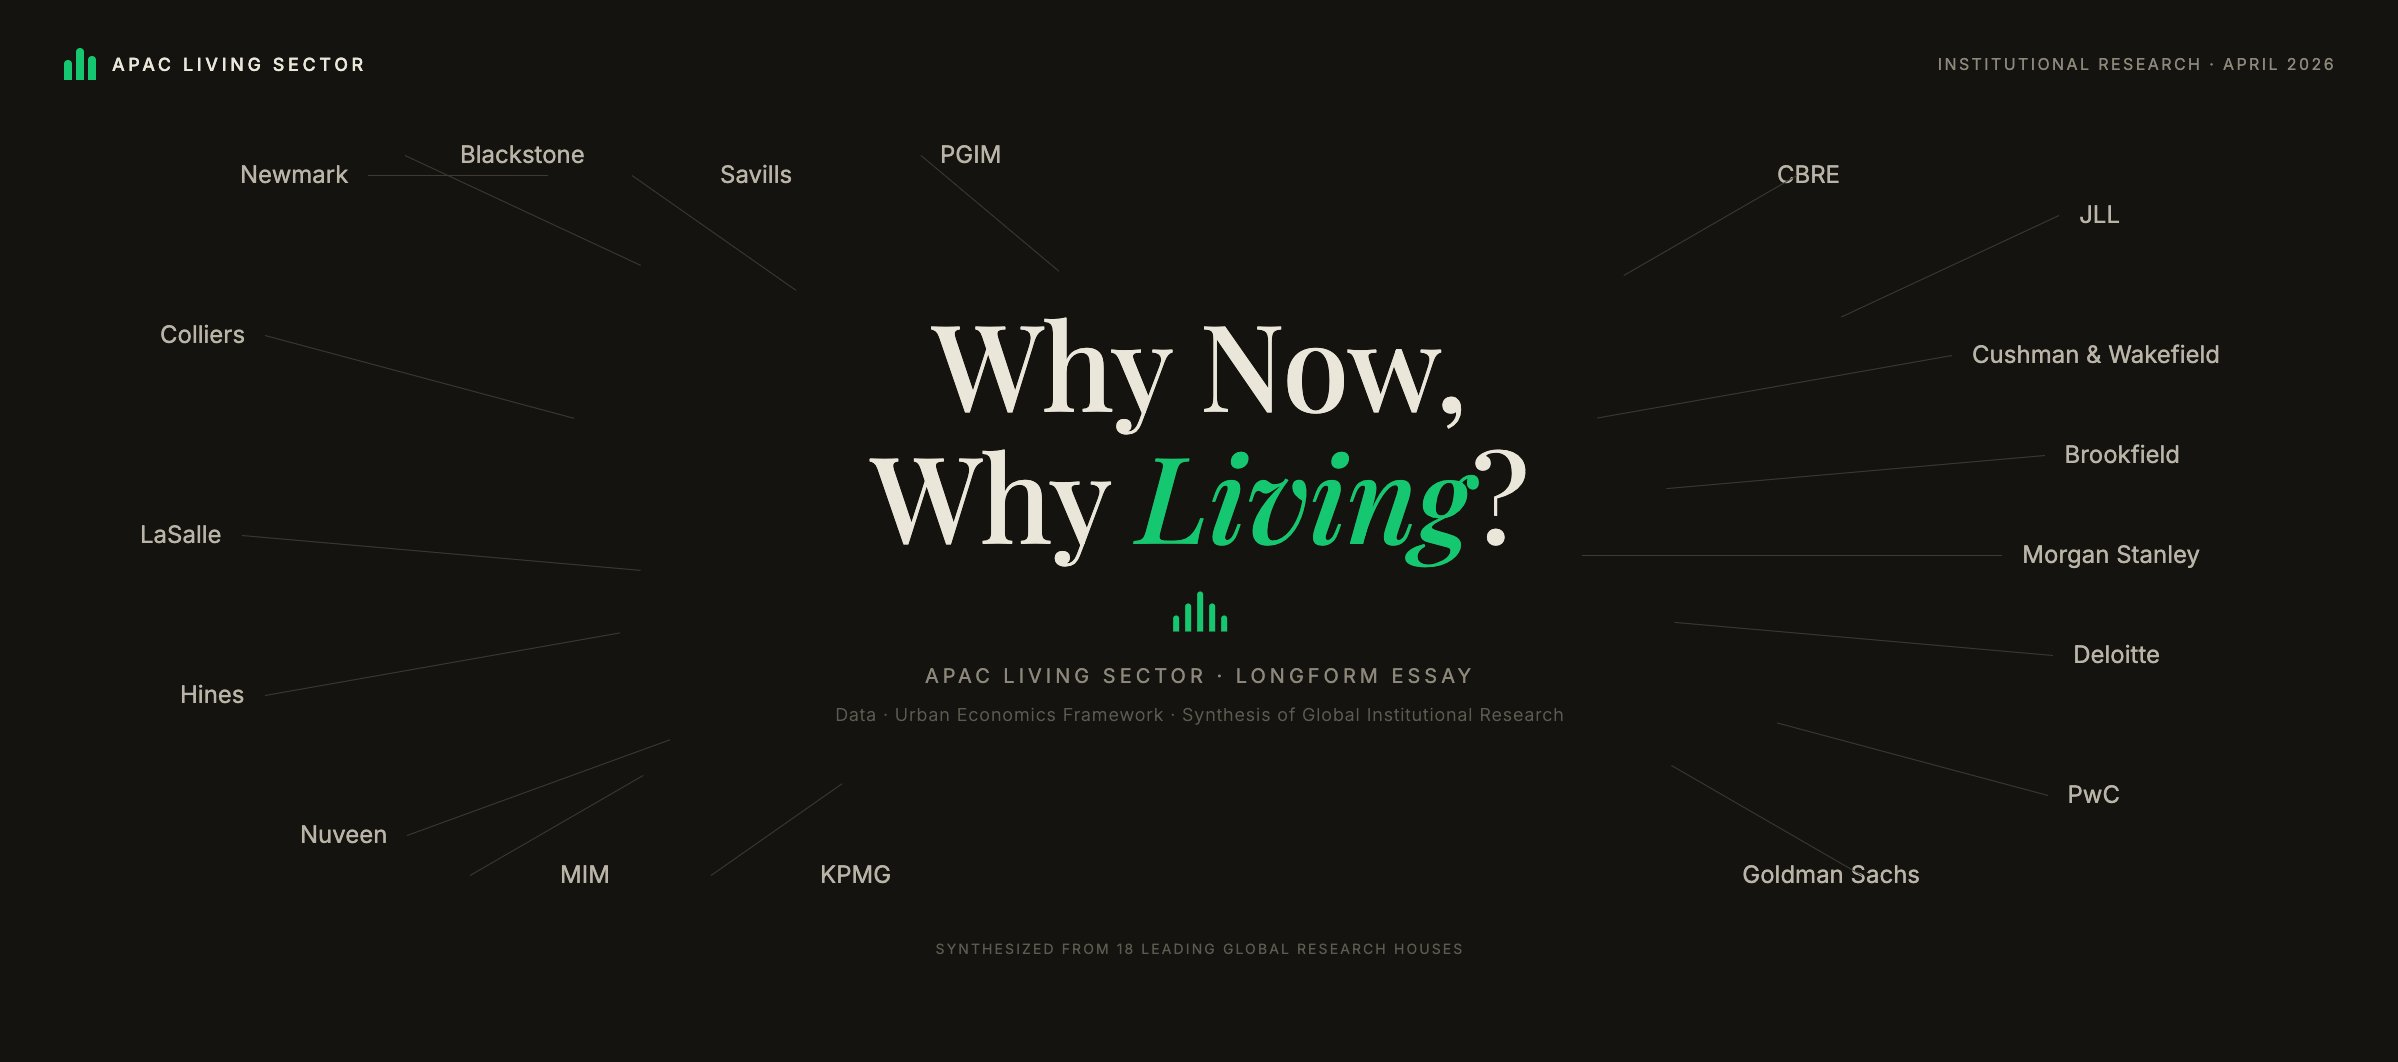
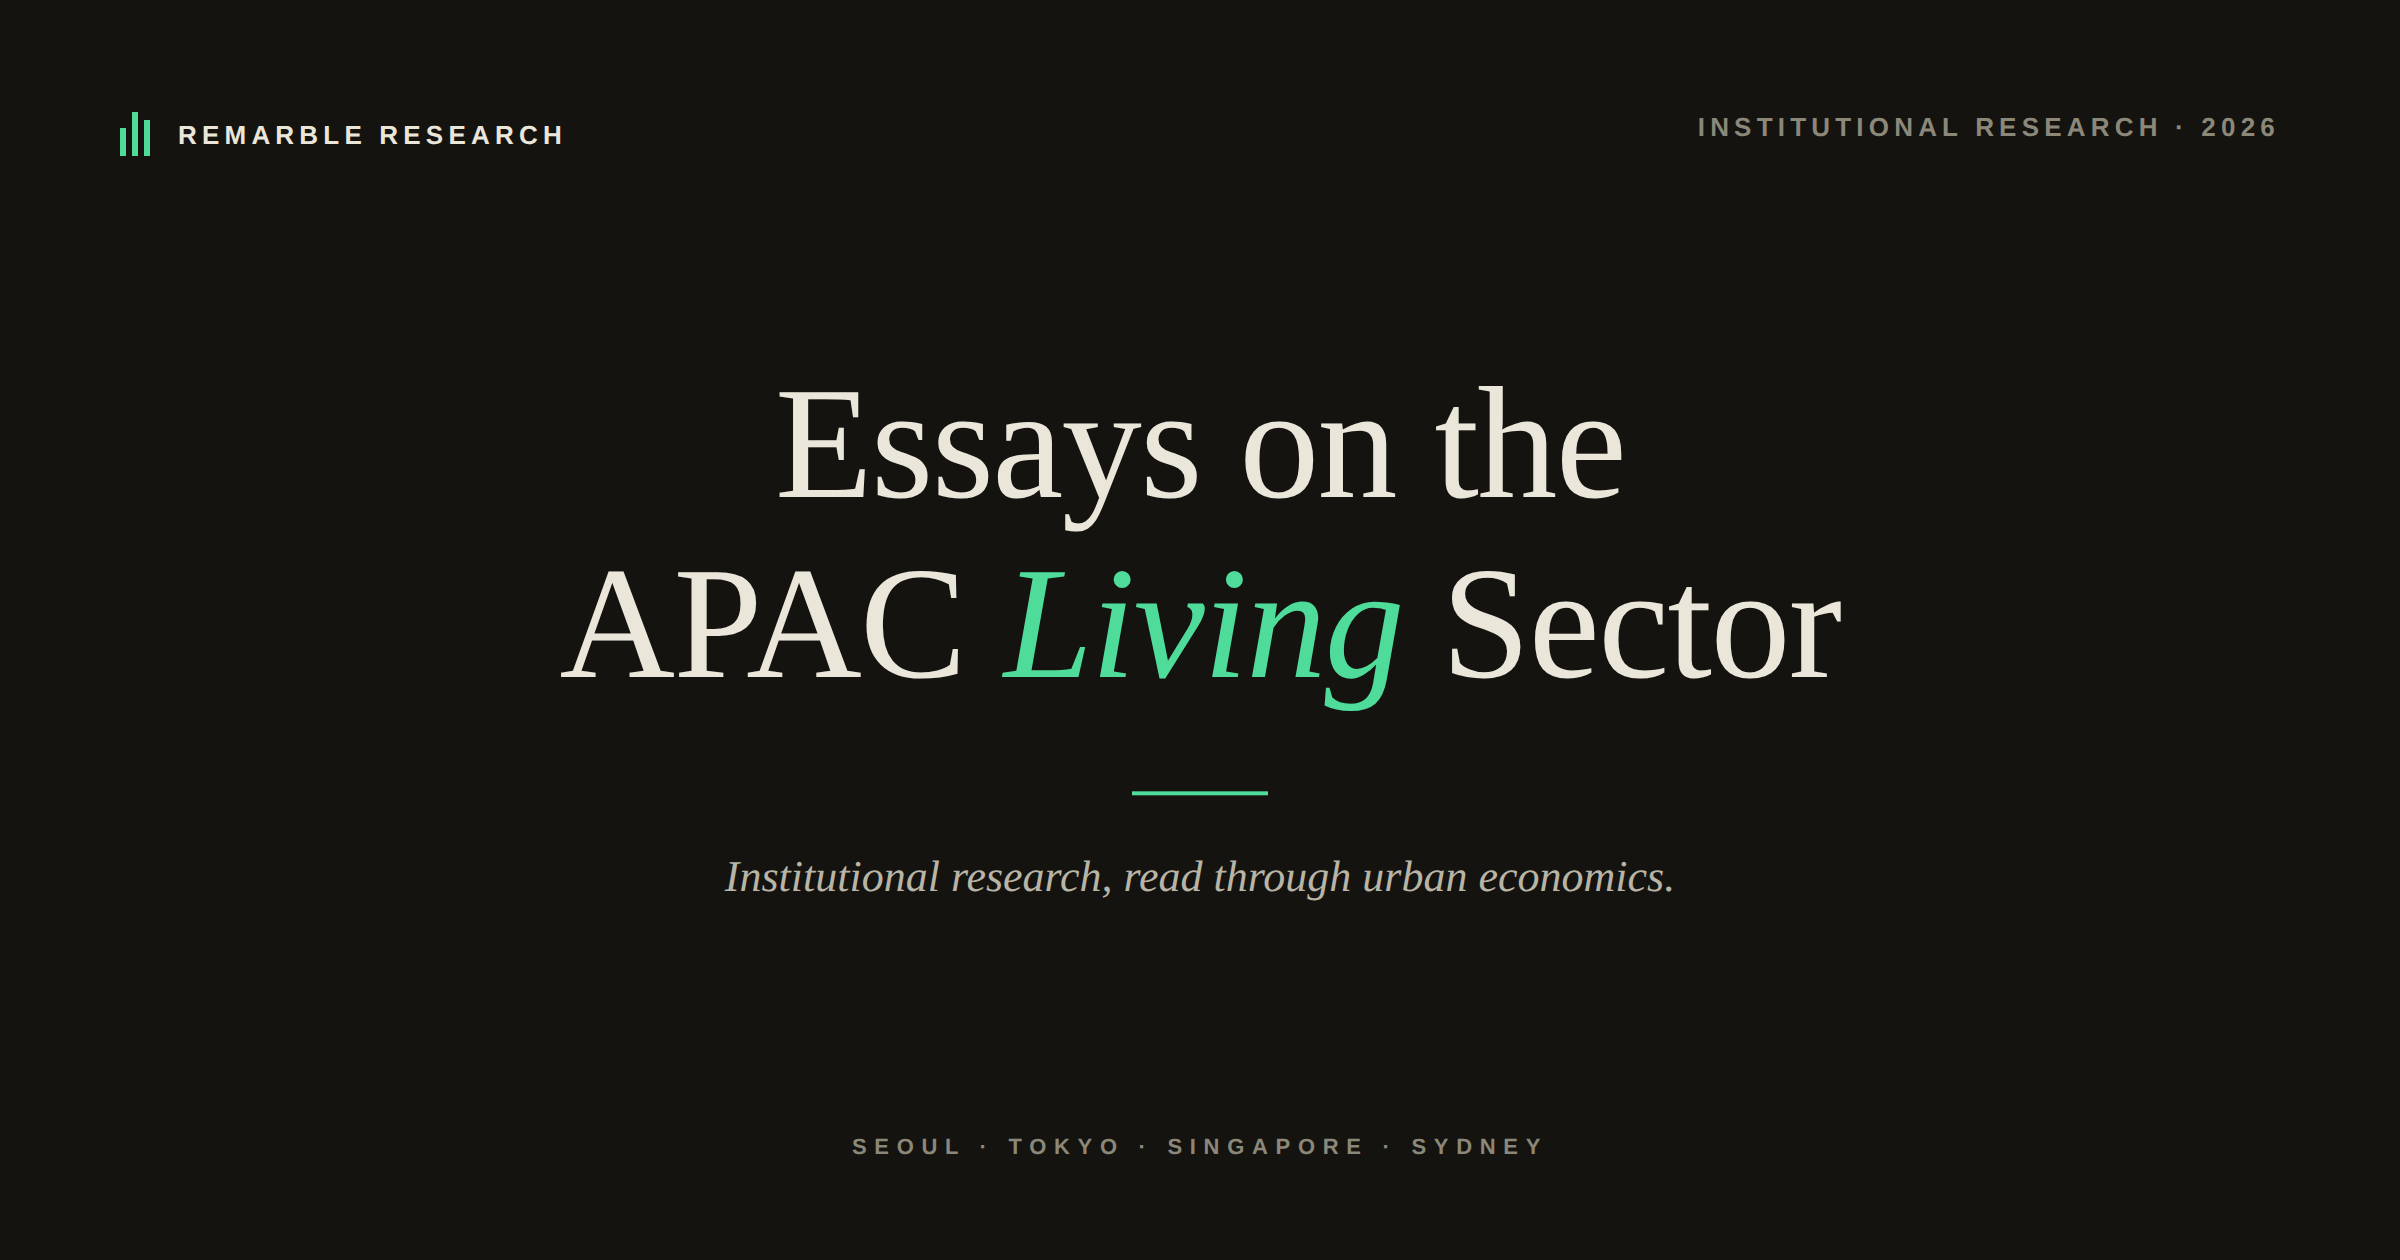
Add files via upload

diff --git a/index.html b/index.html
@@ -381,21 +381,6 @@
 
     <div class="article-grid">
 
-      <a href="apac/" class="article-card reveal">
-        <div class="card-meta">
-          <span class="tag">APAC OVERVIEW</span>
-          <span class="dot"></span>
-          <span>Longform Essay</span>
-        </div>
-        <h2 class="card-title">Why Now, <em>Why Living?</em></h2>
-        <p class="card-dek">A synthesis of 18 leading global research houses' 2026 outlooks, read through the classical frameworks of Alonso, Marshall, Glaeser, and Tiebout. Five gateway markets — Tokyo, Seoul, Singapore, Sydney, and beyond — examined for the structural case for institutional Living.</p>
-        <div class="card-footer">
-          <span class="date">April 2026</span>
-          <span>·</span>
-          <span class="read-time">Read time ≈ 18 min</span>
-        </div>
-      </a>
-
       <a href="seoul/" class="article-card reveal">
         <div class="card-meta">
           <span class="tag">SEOUL · ESSAY 1 OF 3</span>
@@ -408,6 +393,21 @@
           <span class="date">May 2026</span>
           <span>·</span>
           <span class="read-time">Read time ≈ 12 min</span>
+        </div>
+      </a>
+
+      <a href="apac/" class="article-card reveal">
+        <div class="card-meta">
+          <span class="tag">APAC OVERVIEW</span>
+          <span class="dot"></span>
+          <span>Longform Essay</span>
+        </div>
+        <h2 class="card-title">Why Now, <em>Why Living?</em></h2>
+        <p class="card-dek">A synthesis of 18 leading global research houses' 2026 outlooks, read through the classical frameworks of Alonso, Marshall, Glaeser, and Tiebout. Five gateway markets — Tokyo, Seoul, Singapore, Sydney, and beyond — examined for the structural case for institutional Living.</p>
+        <div class="card-footer">
+          <span class="date">April 2026</span>
+          <span>·</span>
+          <span class="read-time">Read time ≈ 18 min</span>
         </div>
       </a>
 

diff --git a/index_ko.html b/index_ko.html
@@ -365,21 +365,6 @@
 
     <div class="article-grid">
 
-      <a href="apac/index_ko.html" class="article-card reveal">
-        <div class="card-meta">
-          <span class="tag">APAC 개관</span>
-          <span class="dot"></span>
-          <span>Longform Essay</span>
-        </div>
-        <h2 class="card-title">Why Now, <em>Why Living?</em></h2>
-        <p class="card-dek">18개 글로벌 리서치 하우스의 2026 전망을 Alonso·Marshall·Glaeser·Tiebout의 고전적 프레임으로 다시 읽는다. 도쿄·서울·싱가포르·시드니, 다섯 게이트웨이 시장을 통해 기관 Living 섹터의 구조적 근거를 짚는다.</p>
-        <div class="card-footer">
-          <span class="date">2026년 4월</span>
-          <span>·</span>
-          <span class="read-time">읽는 시간 ≈ 18분</span>
-        </div>
-      </a>
-
       <a href="seoul/index_ko.html" class="article-card reveal">
         <div class="card-meta">
           <span class="tag">서울 · 시리즈 1편</span>
@@ -392,6 +377,21 @@
           <span class="date">2026년 5월</span>
           <span>·</span>
           <span class="read-time">읽는 시간 ≈ 12분</span>
+        </div>
+      </a>
+
+      <a href="apac/index_ko.html" class="article-card reveal">
+        <div class="card-meta">
+          <span class="tag">APAC 개관</span>
+          <span class="dot"></span>
+          <span>Longform Essay</span>
+        </div>
+        <h2 class="card-title">Why Now, <em>Why Living?</em></h2>
+        <p class="card-dek">18개 글로벌 리서치 하우스의 2026 전망을 Alonso·Marshall·Glaeser·Tiebout의 고전적 프레임으로 다시 읽는다. 도쿄·서울·싱가포르·시드니, 다섯 게이트웨이 시장을 통해 기관 Living 섹터의 구조적 근거를 짚는다.</p>
+        <div class="card-footer">
+          <span class="date">2026년 4월</span>
+          <span>·</span>
+          <span class="read-time">읽는 시간 ≈ 18분</span>
         </div>
       </a>
 